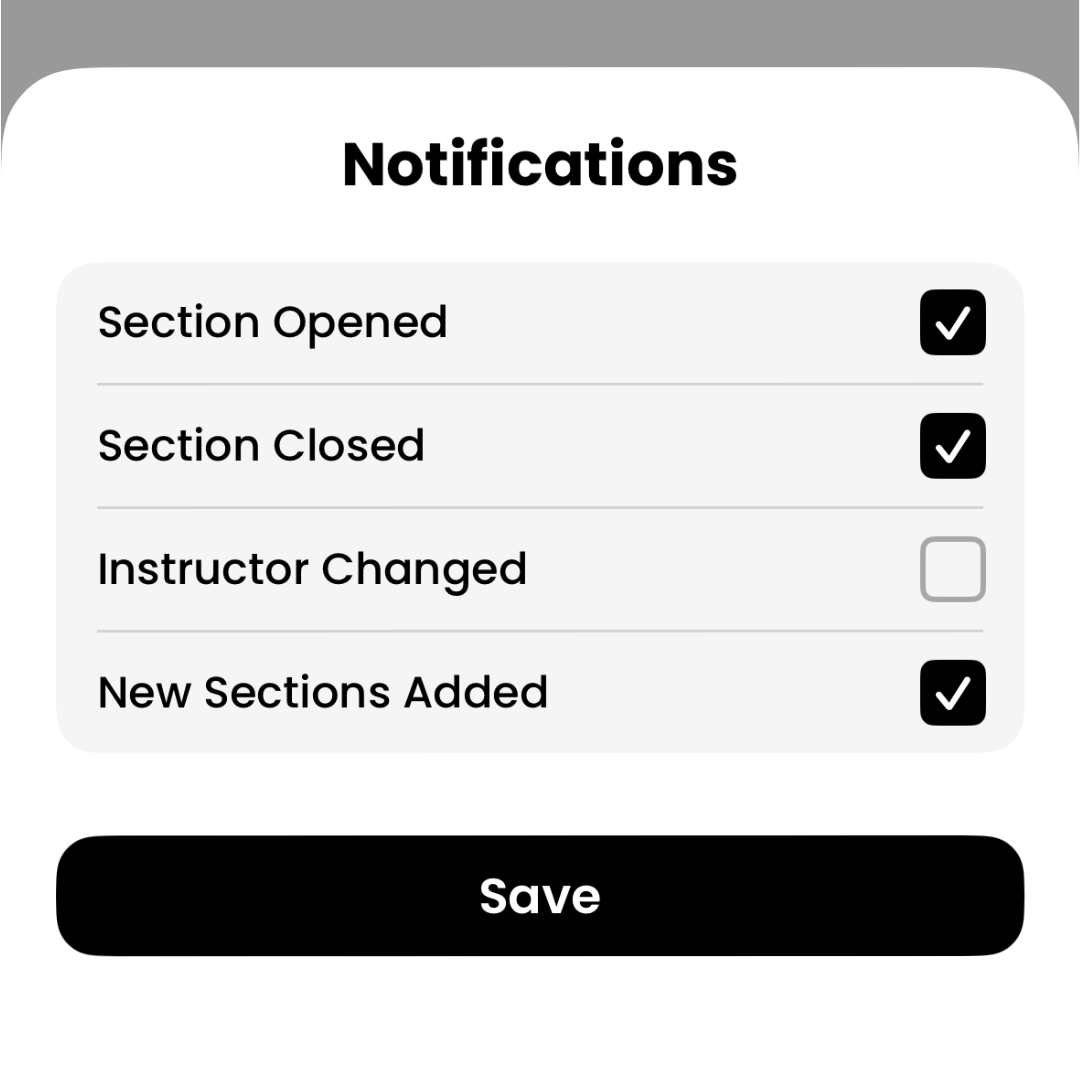
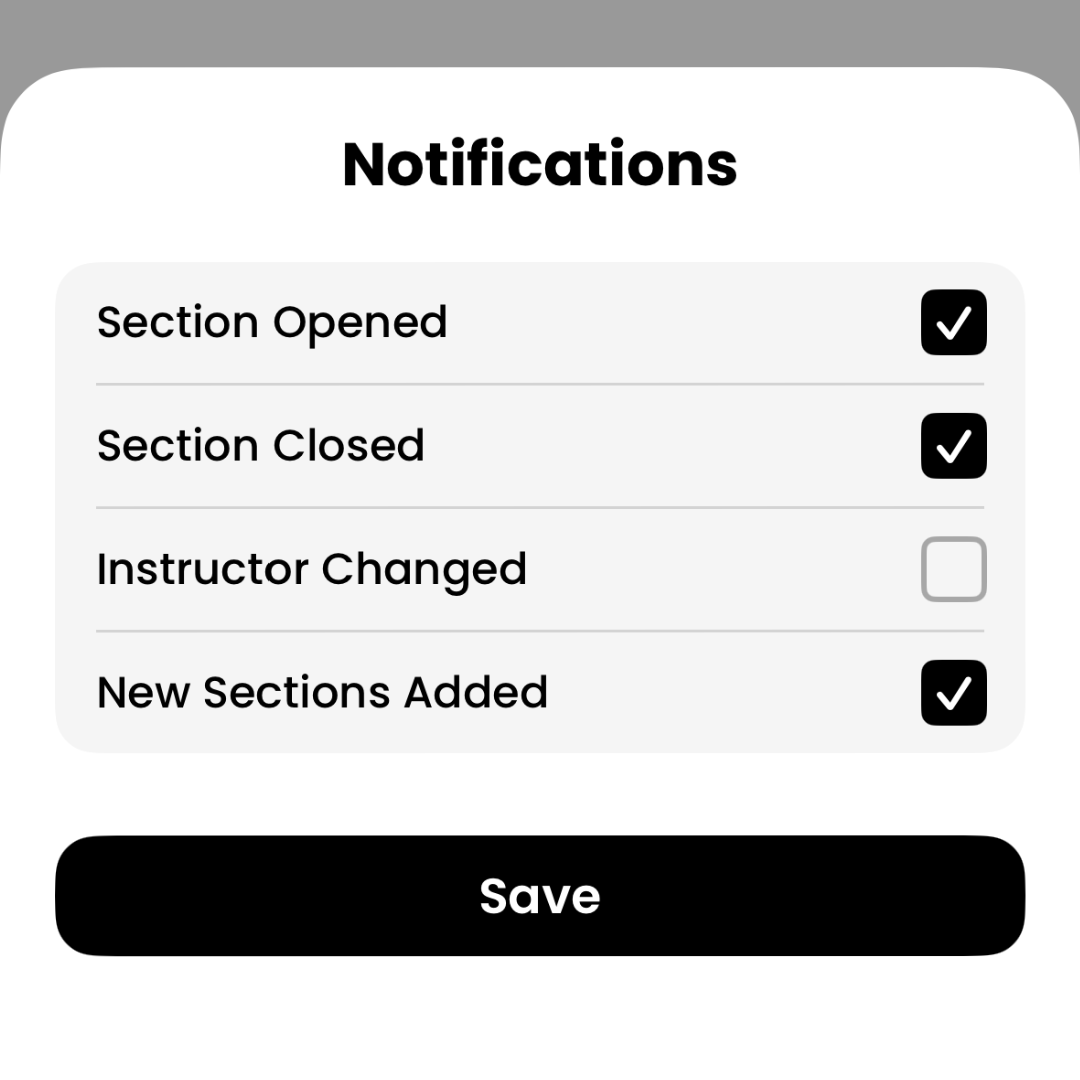
Remove preview

diff --git a/index.html b/index.html
@@ -75,11 +75,11 @@
         </div>
 
         <!-- HERO PHONE — preview.gif (1180x2556) -->
-        <div class="hero-img-wrap">
+        <!-- <div class="hero-img-wrap">
             <div class="hero-phone-img">
                 <img src="preview.gif" alt="ClassChase app preview" />
             </div>
-        </div>
+        </div> -->
 
         <!-- HOW IT WORKS -->
         <div class="inner" style="display:flex;justify-content:center;">
